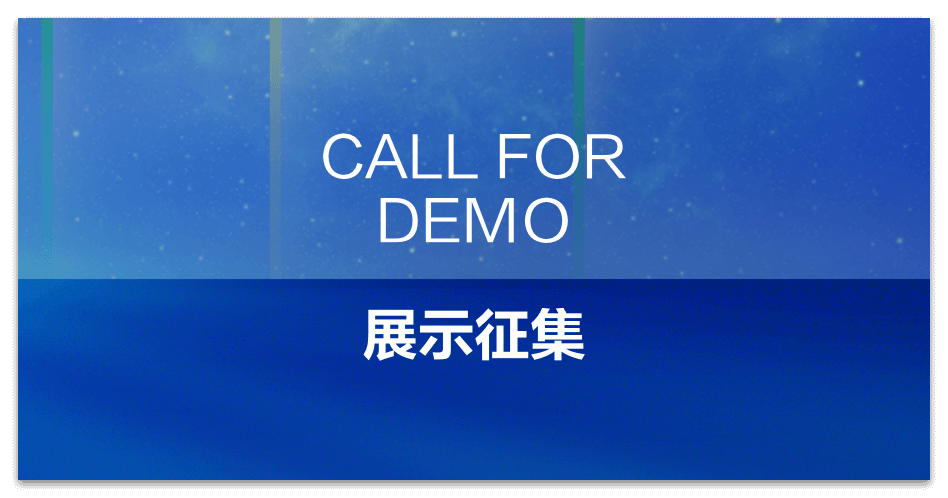
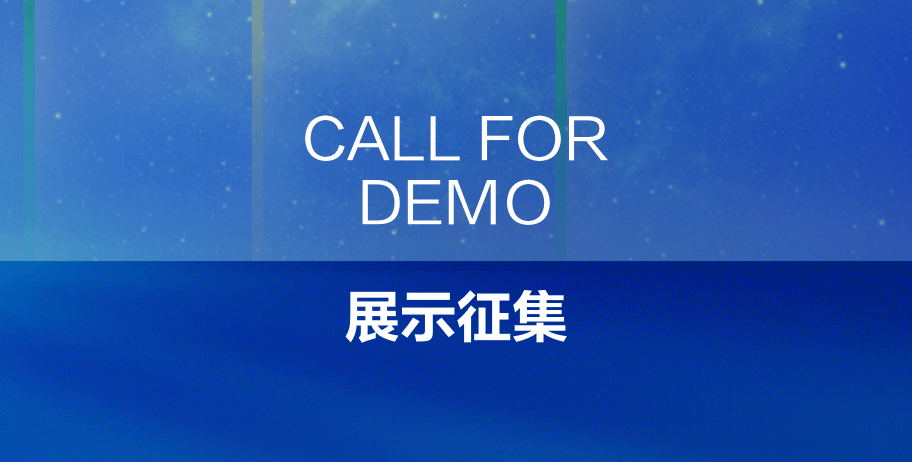
fix:峰会图片优化、证书下载提示弹窗去除

Changed region(s): [[0.0, 0.0, 1.0, 1.0], [0.7675, 0.697, 0.7982, 0.7273]]

diff --git a/app/.vitepress/src/views/certification/search/TheCertificateSearch.vue b/app/.vitepress/src/views/certification/search/TheCertificateSearch.vue
@@ -10,7 +10,6 @@ import {
   downloadCard,
 } from '@/api/api-certification';
 
-import successTipImg from '@/assets/category/certification/success-tip.png';
 import IconChevron from '~icons/app/icon-chevron-right.svg';
 import IconRequired from '~icons/app/icon-required.svg';
 
@@ -20,10 +19,19 @@ import notFoundImg_dark from '@/assets/illustrations/404_dark.png';
 import OInput from 'opendesign/input/OInput.vue';
 import AppContent from '@/components/AppContent.vue';
 
+import hcia from '@/assets/category/certification/hcia.png';
+import hcie from '@/assets/category/certification/hcie.png';
+import hcip from '@/assets/category/certification/hcip.png';
+
 const i18n = useI18n();
 const { lang } = useData();
 const commonStore = useCommon();
 
+const imgList: any = {
+  OECA: hcia,
+  OECP: hcip,
+  OECE: hcie,
+};
 const language = computed(() =>
   lang.value === 'zh' ? 'zh_CN' : lang.value === 'en' ? 'en_US' : 'ru_RU'
 );
@@ -163,9 +171,6 @@ function goBackPage() {
 function clickChoose(index: number) {
   chooseList.value[index] = !chooseList.value[index];
 }
-// 下载事件处理
-// 是否下载成功
-const downTip = ref(false);
 // 判断下载链接是否失效
 const disabledTip = ref('');
 function download(paString: string) {
@@ -199,7 +204,6 @@ function download(paString: string) {
         document.body.appendChild(downloadElement);
         downloadElement.click();
         document.body.removeChild(downloadElement);
-        downTip.value = true;
       } else {
         disabledTip.value = res.message;
       }
@@ -228,10 +232,6 @@ function clickDownload() {
       existChoose.value = false;
     }, 500);
   }
-}
-// 点击关闭弹出的蒙层
-function clickPopover() {
-  downTip.value = false;
 }
 </script>
 
@@ -330,7 +330,7 @@ function clickPopover() {
           >
             <div class="choose-img"></div>
             <div class="item-img">
-              <img :src="'/' + item.iconUrl" alt="" />
+              <img :src="imgList[item.title[0]]" alt="" />
             </div>
             <div class="item-text">
               <p class="title">{{ item.title[0] }}</p>
@@ -351,11 +351,6 @@ function clickPopover() {
         </p>
       </div>
     </div>
-    <transition name="tip">
-      <div v-show="downTip" class="popover" @click="clickPopover">
-        <img :src="successTipImg" alt="" />
-      </div>
-    </transition>
   </AppContent>
 </template>
 
@@ -789,40 +784,5 @@ function clickPopover() {
 }
 .false {
   margin-top: 0;
-}
-.popover {
-  position: fixed;
-  left: 0;
-  top: 0;
-  width: 100vw;
-  height: 100vh;
-  background-color: var(--o-color-bg6);
-  z-index: 99;
-  display: flex;
-  align-items: center;
-  justify-content: center;
-  cursor: pointer;
-  @media screen and (max-width: 1100px) {
-    align-items: flex-start;
-    padding-top: 20vh;
-  }
-  img {
-    width: 40vw;
-    @media screen and (max-width: 1100px) {
-      width: 80vw;
-    }
-  }
-}
-.tip-enter-from,
-.tip-leave-to {
-  opacity: 0;
-}
-.tip-enter-active,
-.tip-leave-active {
-  transition: all 0.5s;
-}
-.tip-enter-to,
-.tip-leave-from {
-  opacity: 1;
 }
 </style>

diff --git a/app/.vitepress/src/views/certification/down/TheDown.vue b/app/.vitepress/src/views/certification/down/TheDown.vue
@@ -9,7 +9,6 @@ import AppContent from '@/components/AppContent.vue';
 
 import notFoundImg_light from '@/assets/illustrations/404.png';
 import notFoundImg_dark from '@/assets/illustrations/404_dark.png';
-import successTipImg from '@/assets/category/certification/success-tip.png';
 const i18n = useI18n();
 const { lang } = useData();
 const commonStore = useCommon();
@@ -22,8 +21,6 @@ const notFoundImg = computed(() =>
 );
 const disabledTip = ref('');
 // 下载事件处理
-// 是否下载成功
-const downTip = ref(false);
 function download(paString: string) {
   downloadCard(paString, language.value)
     .then((res) => {
@@ -55,7 +52,6 @@ function download(paString: string) {
         document.body.appendChild(downloadElement);
         downloadElement.click();
         document.body.removeChild(downloadElement);
-        downTip.value = true;
       } else {
         disabledTip.value = res.message;
       }
@@ -74,10 +70,6 @@ function getQueryString(name: string) {
   }
   return '';
 }
-// 点击关闭弹出的蒙层
-function clickPopover() {
-  downTip.value = false;
-}
 onMounted(() => {
   download(getQueryString('PA'));
 });
@@ -91,11 +83,6 @@ onMounted(() => {
         {{ disabledTip }}
       </p>
     </div>
-    <transition name="tip">
-      <div v-show="downTip" class="popover" @click="clickPopover">
-        <img :src="successTipImg" alt="" />
-      </div>
-    </transition>
   </AppContent>
 </template>
 <style lang="scss" scoped>
@@ -137,40 +124,5 @@ h2 {
       font-size: var(--o-font-size-tip);
     }
   }
-}
-.popover {
-  position: fixed;
-  left: 0;
-  top: 0;
-  width: 100vw;
-  height: 100vh;
-  background-color: var(--o-color-bg6);
-  z-index: 99;
-  display: flex;
-  align-items: center;
-  justify-content: center;
-  cursor: pointer;
-  @media screen and (max-width: 1100px) {
-    align-items: flex-start;
-    padding-top: 20vh;
-  }
-  img {
-    width: 40vw;
-    @media screen and (max-width: 1100px) {
-      width: 80vw;
-    }
-  }
-}
-.tip-enter-from,
-.tip-leave-to {
-  opacity: 0;
-}
-.tip-enter-active,
-.tip-leave-active {
-  transition: all 0.5s;
-}
-.tip-enter-to,
-.tip-leave-from {
-  opacity: 1;
 }
 </style>

diff --git a/app/.vitepress/src/views/summit/TheSummit.vue b/app/.vitepress/src/views/summit/TheSummit.vue
@@ -91,15 +91,15 @@ const summitData = {
   <AppContext>
     <div class="detail">{{ summitData.detail }}</div>
     <div class="content">
-      <div
+      <a
         v-for="item in summitData.contentList"
         :key="item.link"
         class="content-item"
+        :href="item.link"
+        target="_blank"
       >
-        <a :href="item.link" target="_blank">
-          <img :src="item.img" :alt="item.name" />
-        </a>
-      </div>
+        <img :src="item.img" :alt="item.name" />
+      </a>
     </div>
     <div class="previous">
       <div class="previous-title">
@@ -158,25 +158,25 @@ const summitData = {
   margin: var(--o-spacing-h2) auto 0 auto;
   display: grid;
   grid-template-columns: repeat(3, 1fr);
+  gap: var(--o-spacing-h4);
   @media screen and (max-width: 968px) {
     grid-template-columns: repeat(1, 1fr);
     max-width: 474px;
+    gap: var(--o-spacing-h5);
   }
-
   .content-item {
     width: 100%;
-    @media screen and (max-width: 768px) {
-      text-align: center;
-    }
-    a {
-      display: inline-block;
-      width: 100%;
-      img {
-        width: 100%;
-        @media screen and (max-width: 490px) {
-          width: 100%;
-        }
+    display: block;
+    width: 100%;
+    box-shadow: var(--o-shadow-l2);
+    &:hover {
+      box-shadow: var(--o-shadow-l2_hover);
+      @media screen and (max-width: 1100px) {
+        box-shadow: var(--o-shadow-l2);
       }
+    }
+    img {
+      width: 100%;
     }
   }
 }
